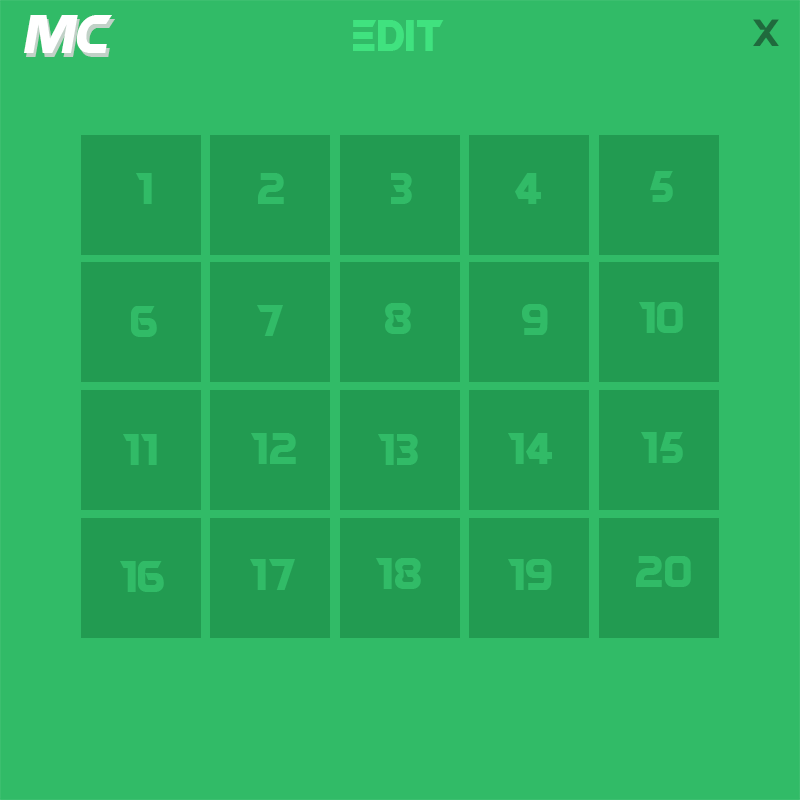
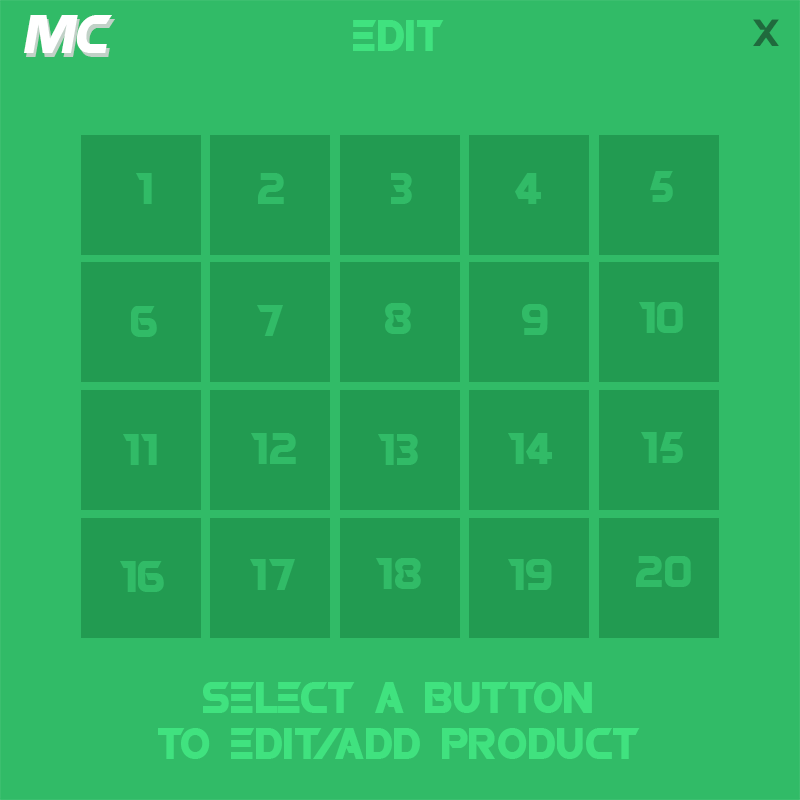
remove couple states

Changed region(s): [[0.1875, 0.8438, 0.8125, 0.9688]]

diff --git a/src/main/CashMachine.java b/src/main/CashMachine.java
@@ -24,7 +24,7 @@ import database.Transaction;
 public class CashMachine {
 	
 	public static enum State {
-		SetupNAME, SetupSIZE, SetupBUTTON, StartSCREEN, StartORDER, ORDER, OrderSUMMARY, EditSELECT, EditBUTTON
+		SetupNAME, StartSCREEN, StartORDER, ORDER, OrderSUMMARY, EditSELECT, EditBUTTON
 	}
 	
 	
@@ -146,15 +146,7 @@ public class CashMachine {
 			
 			g.drawString(this.companyName.toUpperCase(), 215, 330);
 			break;
-		// how many buttons
-		case SetupSIZE:
-	
-			break;
-		// input button info
-		case SetupBUTTON:
-		
-			break;
-		// select to open cash machine or edit the cash machine
+			// select to open cash machine or edit the cash machine
 		case StartSCREEN:
 		
 			break;
@@ -233,20 +225,12 @@ public class CashMachine {
 	public void run() throws IOException{
 		switch(this.state) {
 		case SetupNAME:
-			
-			break;
-		case SetupSIZE:
-			
-			break;
-		case SetupBUTTON:
-			
 			break;
 		case StartORDER:
 			break;
 		case StartSCREEN:
 			break;
 		case ORDER:
-			
 			break;
 		case OrderSUMMARY:
 			this.customer.write();
@@ -282,15 +266,6 @@ public class CashMachine {
 		switch (this.state) {
 		// 
 		case SetupNAME:
-			
-			break;
-		// how many buttons
-		case SetupSIZE:
-			
-			break;
-		// input button info
-		case SetupBUTTON:
-			
 			break;
 		// select to open cash machine or edit the cash machine
 		case StartSCREEN:
@@ -405,14 +380,6 @@ public class CashMachine {
 			else if (temp != KeyEvent.VK_BACK_SPACE && companyName.length() < 16) {
 				companyName += temp;
 			}
-			break;
-		// how many buttons
-		case SetupSIZE:
-			
-			break;
-		// input button info
-		case SetupBUTTON:
-			
 			break;
 		case StartORDER:
 			temp = e.getKeyChar();

diff --git a/src/main/Panel.java b/src/main/Panel.java
@@ -19,7 +19,7 @@ public final class Panel extends JPanel implements MouseListener, KeyListener {
 	// fixes an error with JPanel
 	private static final long serialVersionUID = 1L;
 	
-	private static BufferedImage edit1, edit2, setup1, setup2, setup3, start, use2, use3, use4;
+	private static BufferedImage edit1, edit2, setup1, setup2, start, use2, use3, use4;
 								
 	
 	private CashMachine mc;
@@ -38,11 +38,8 @@ public final class Panel extends JPanel implements MouseListener, KeyListener {
 		fileURL = getClass().getResource("/Screens/SETUP1.png");
 		setup1 = ImageIO.read(fileURL);
 		
-		fileURL = getClass().getResource("/Screens/SETUP2.png");
+		fileURL = getClass().getResource("/Screens/SELECTEDIT.png");
 		setup2 = ImageIO.read(fileURL);
-		
-		fileURL = getClass().getResource("/Screens/setup3.png");
-		setup3 = ImageIO.read(fileURL);
 		
 		fileURL = getClass().getResource("/Screens/START.png");
 		start = ImageIO.read(fileURL);
